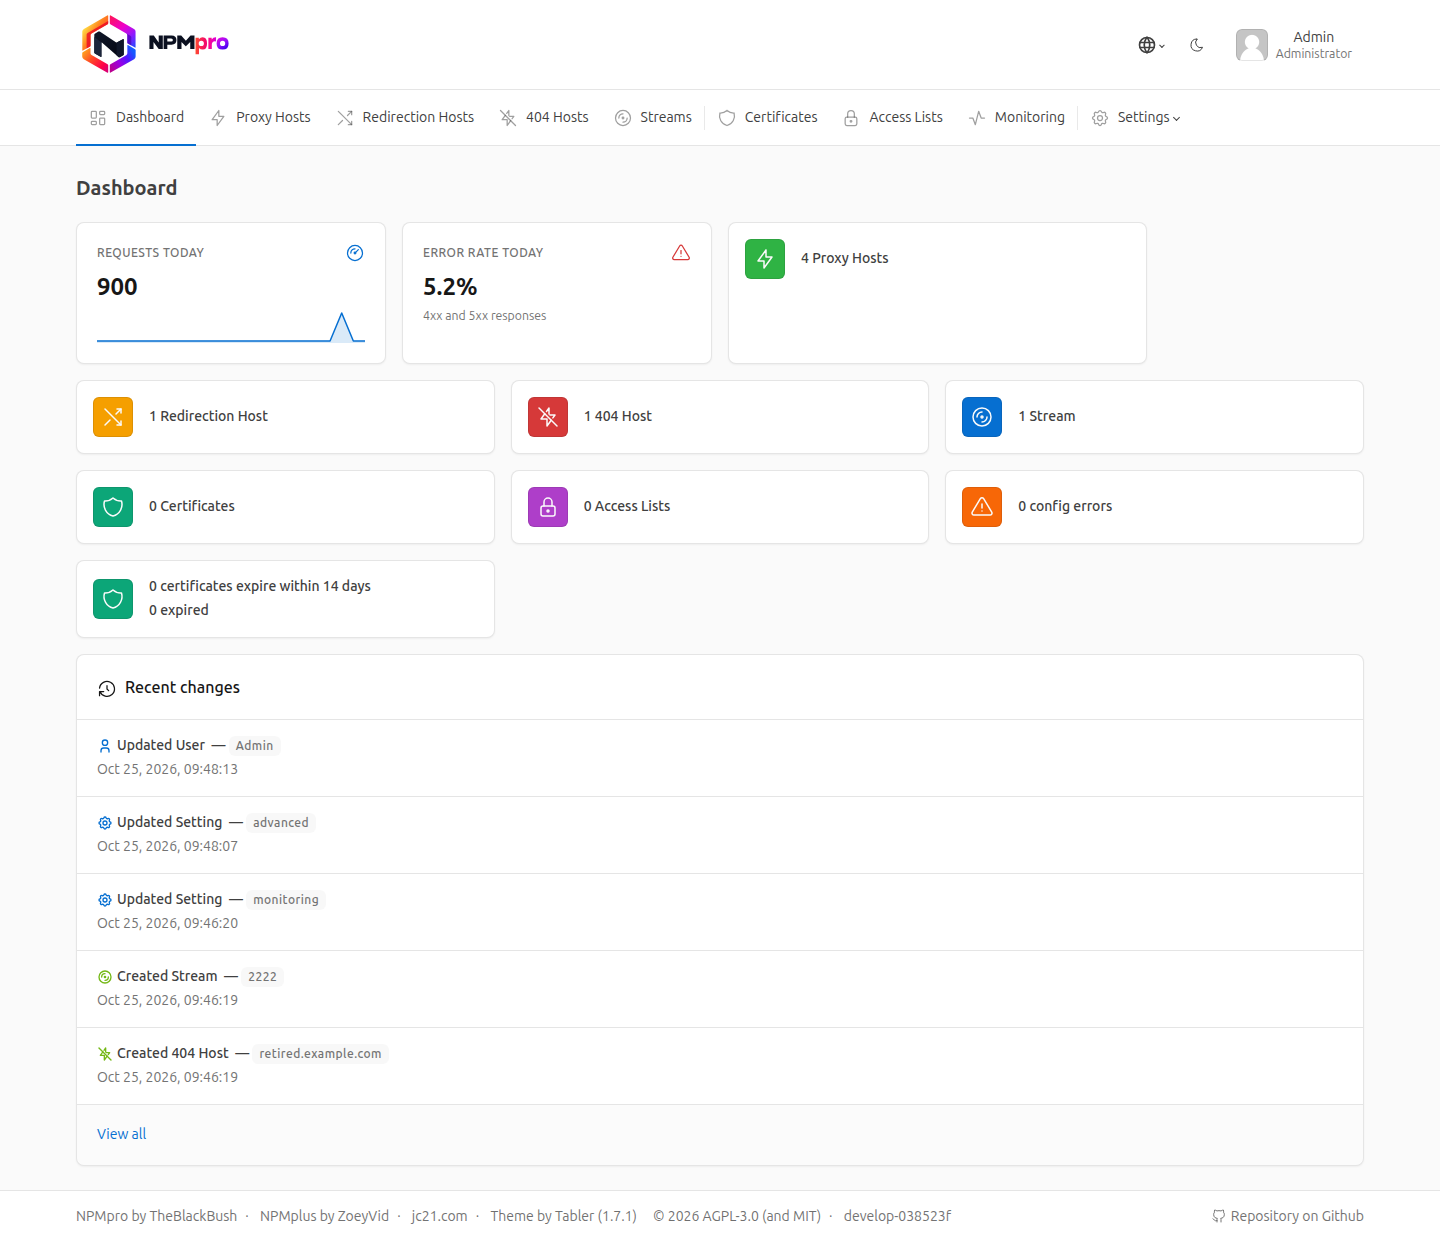
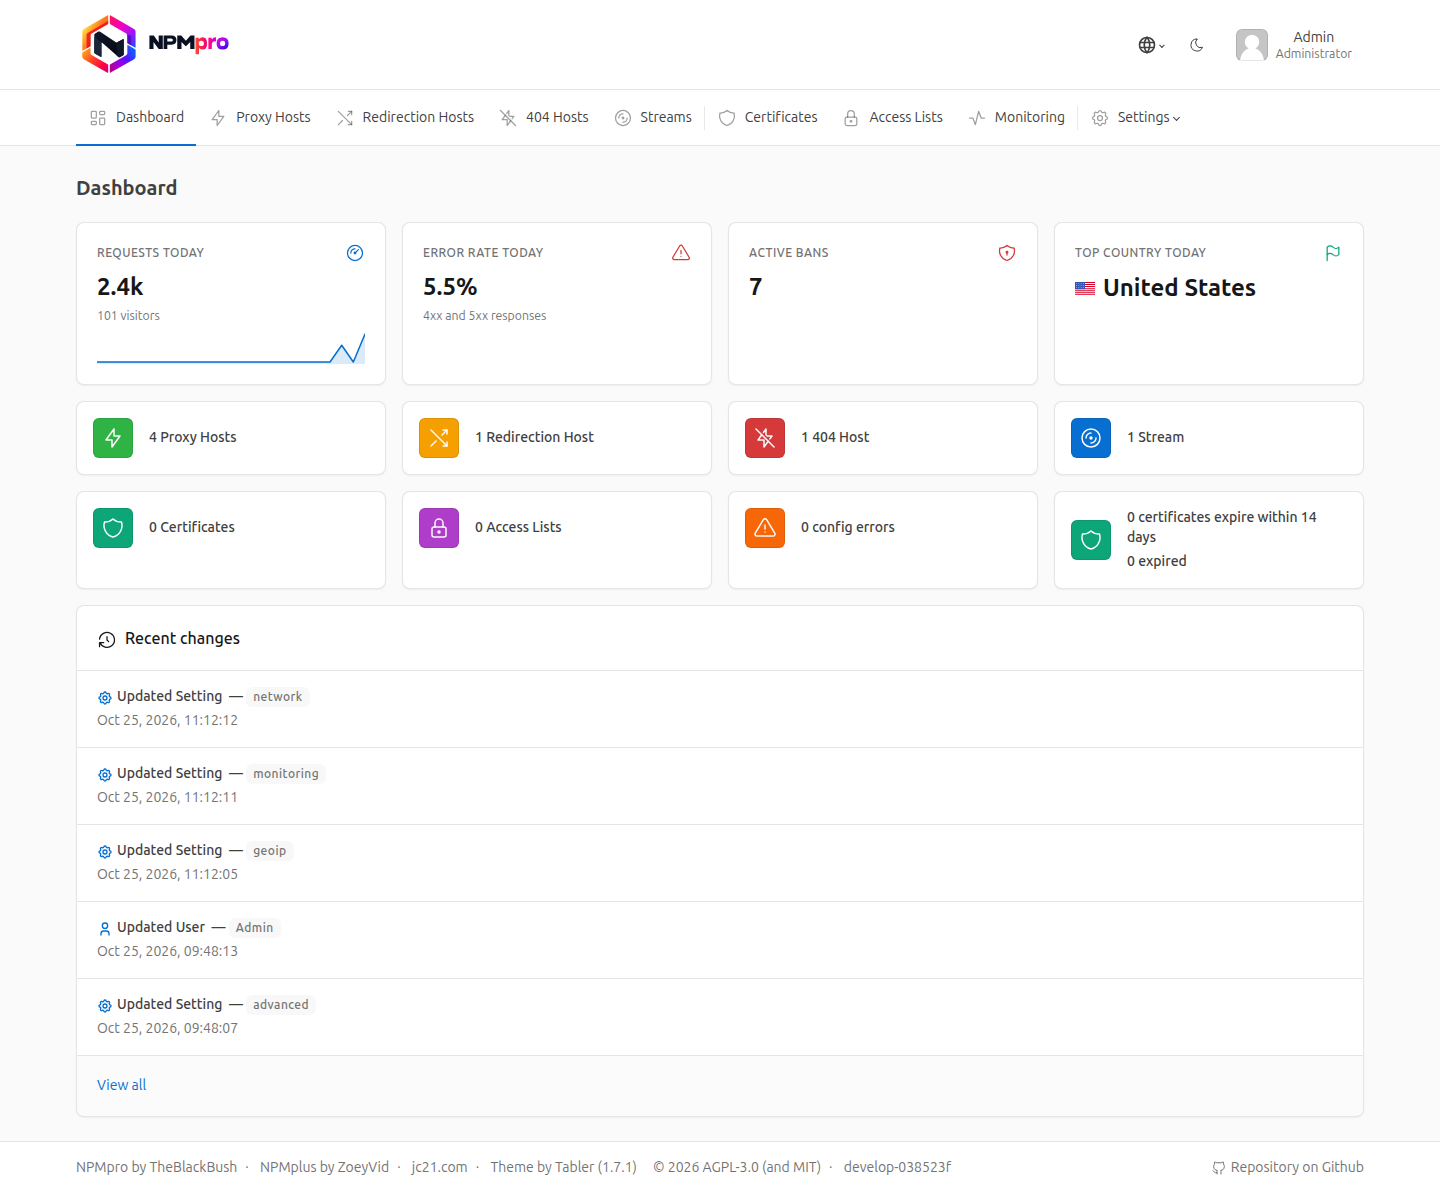
fix: fill the dashboard rows: monitoring cards size to their count, tiles four per row

diff --git a/frontend/src/pages/Dashboard/MonitoringRow.jsx b/frontend/src/pages/Dashboard/MonitoringRow.jsx
@@ -1,4 +1,5 @@
 import { IconAlertTriangle, IconFlag, IconGauge, IconShieldLock } from "@tabler/icons-react";
+import { cloneElement } from "react";
 import { CountryName } from "src/components/Monitoring/CountryName";
 import { StatCard } from "src/components/Monitoring/StatCard";
 import { useMonitoringSummary } from "src/hooks/useMonitoring";
@@ -40,8 +41,17 @@ function Sparkline({ series }) {
 	);
 }
 
+// Column classes by the number of cards shown, so the cards always fill their row and the tiles start a new one.
+// With four cards the second pair takes the full width on phones, so a long country name is not cut off.
+const COLUMNS_BY_COUNT = {
+	1: ["col-12"],
+	2: ["col-12 col-sm-6", "col-12 col-sm-6"],
+	3: ["col-12 col-md-4", "col-12 col-md-4", "col-12 col-md-4"],
+	4: ["col-6 col-lg-3", "col-6 col-lg-3", "col-12 col-md-6 col-lg-3", "col-12 col-md-6 col-lg-3"],
+};
+
 /**
- * Row of four monitoring cards above the dashboard tiles. Each card is hidden when its value is unknown.
+ * Row of up to four monitoring cards above the dashboard tiles. Each card is hidden when its value is unknown.
  * Only rendered for administrators (the summary endpoint is admin only).
  */
 function MonitoringRow() {
@@ -53,7 +63,6 @@ function MonitoringRow() {
 	const cards = [
 		requestsToday !== null && requestsToday !== undefined ? (
 			<StatCard
-				className="col-6 col-lg-3"
 				key="requests"
 				to="/monitoring/traffic"
 				icon={IconGauge}
@@ -71,7 +80,6 @@ function MonitoringRow() {
 		) : null,
 		errorRateToday !== null && errorRateToday !== undefined ? (
 			<StatCard
-				className="col-6 col-lg-3"
 				key="errors"
 				to="/monitoring/traffic"
 				icon={IconAlertTriangle}
@@ -83,7 +91,6 @@ function MonitoringRow() {
 		) : null,
 		activeBans !== null && activeBans !== undefined ? (
 			<StatCard
-				className="col-6 col-lg-3"
 				key="bans"
 				to="/monitoring/crowdsec"
 				icon={IconShieldLock}
@@ -94,7 +101,6 @@ function MonitoringRow() {
 		) : null,
 		hasCountry ? (
 			<StatCard
-				className="col-6 col-lg-3"
 				key="country"
 				to="/monitoring/traffic"
 				icon={IconFlag}
@@ -105,7 +111,8 @@ function MonitoringRow() {
 		) : null,
 	].filter(Boolean);
 
-	return cards;
+	const columns = COLUMNS_BY_COUNT[cards.length];
+	return cards.map((card, i) => cloneElement(card, { className: columns[i] }));
 }
 
 export { MonitoringRow };

diff --git a/frontend/src/pages/Dashboard/DashboardTile.jsx b/frontend/src/pages/Dashboard/DashboardTile.jsx
@@ -5,7 +5,7 @@ import { Link } from "react-router";
  */
 function DashboardTile({ to, icon: Icon, color, children }) {
 	return (
-		<div className="col-sm-6 col-lg-4">
+		<div className="col-sm-6 col-lg-3">
 			<Link to={to} className="card card-sm card-link card-link-pop">
 				<div className="card-body">
 					<div className="row align-items-center">
